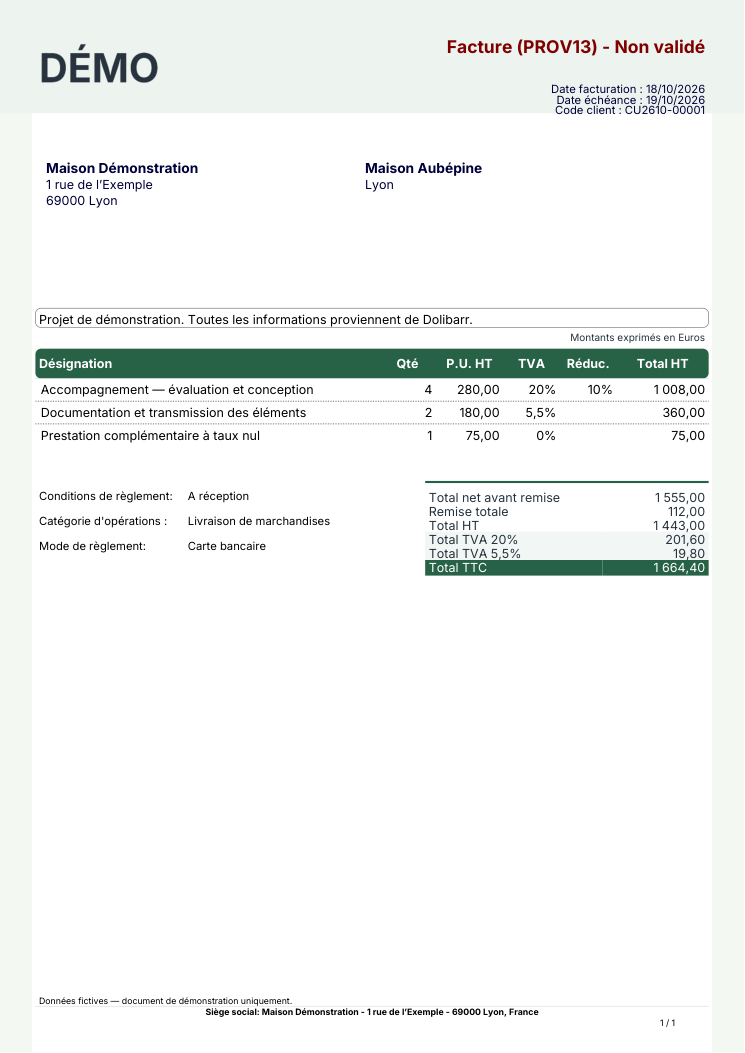
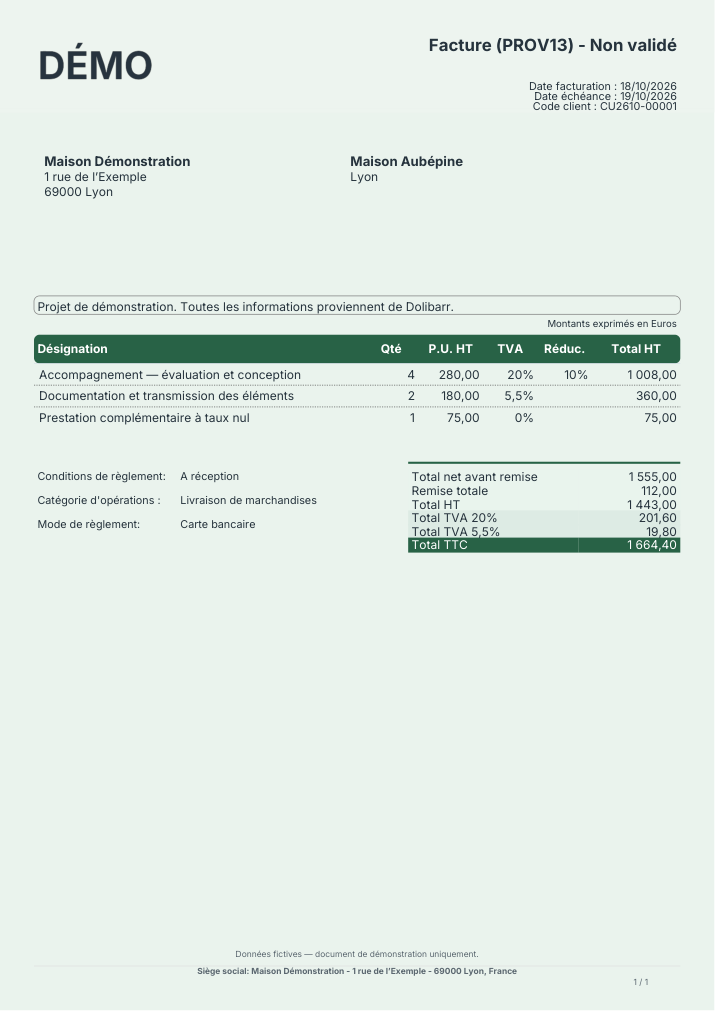
fix: apply the document background across PDF pages and repair info tooltip contrast
Documents Indy 1.3.0 removes the fixed white content panel from preview and native invoice/order PDFs. Paint the selected light paper color below native content, including later pages without repeated headings, and adapt total-cell fills and contrast checks.

Import reviewed Indy 1.4.1 for readable native tooltips and mobile help dialogs. Add rendered background checks, native hover/click/touch regressions and updated examples.

diff --git a/modules/indyinvoice/css/settings.css b/modules/indyinvoice/css/settings.css
@@ -1,4 +1,4 @@
-.indy-document-layout{display:grid;grid-template-columns:minmax(300px,1fr) minmax(280px,.85fr);gap:28px;align-items:start}.indy-document-layout h2{font-size:17px;font-weight:600;margin:0 0 18px}.indy-document-fields{display:grid;grid-template-columns:repeat(2,minmax(0,1fr));gap:18px 22px;margin-block:24px}.indy-document-field{display:flex;flex-direction:column;gap:8px;min-width:0}.indy-document-field label{font-size:13px;color:#596874}.indy-document-field input,.indy-document-field select{max-width:100%;box-sizing:border-box;min-height:42px}.indy-document-field input[type=color]{width:100%;padding:5px;cursor:pointer}.indy-palettes{display:flex;flex-wrap:wrap;gap:8px}body .indy-palettes button{padding:8px 14px;border:1px solid #d7e1e9;border-radius:20px;background:#fff;color:#354d61;cursor:pointer;font:inherit}.indy-palettes button:hover{background:#fff0f5}.indy-document-preview{position:sticky;top:24px;min-width:0}.indy-paper{--doc-band:#fcebd8;--doc-table:#fcebd8;--doc-accent:#d82b68;--doc-paper:#fff;border:1px solid #d7e1e9;border-radius:4px;background:var(--doc-paper);overflow:hidden;box-shadow:0 6px 20px #27333e0a;font-size:10px;color:var(--doc-text,#27333e);aspect-ratio:210/297}.indy-preview-photo{display:block;width:100%;height:45px;object-fit:cover}.indy-preview-photo[hidden]{display:none}.indy-preview-header{display:flex;justify-content:space-between;gap:15px;padding:25px 20px;background:var(--doc-band);color:var(--doc-header-text,#27333e)}.indy-preview-body{margin:0 15px;padding:15px 5px;background:#fff;min-height:80%;box-sizing:border-box}.indy-preview-addresses{display:flex;justify-content:space-between;gap:12px;margin-bottom:45px;font-size:9px}.indy-preview-table{display:grid;grid-template-columns:1fr 24px 65px;font-size:9px}.indy-preview-table>*{padding:8px 5px;border-bottom:1px solid #edf0f3}.indy-preview-table>b{background:var(--doc-table);color:var(--doc-table-text,#27333e)}.indy-preview-totals{border-top:2px solid var(--doc-accent);width:55%;margin:35px 0 80px auto;padding-top:8px;line-height:1.8}.indy-preview-totals b{float:right}.indy-preview-footer{font-size:8px;color:var(--doc-footer-text,#596874)}.indy-document-preview .butAction{display:block;margin:10px 0;text-align:center}.indy-document-options .tabBar{margin:0}.indy-document-options h2:not(:first-child){margin-top:28px}@media(max-width:1100px){.indy-document-layout{grid-template-columns:minmax(0,1fr)}.indy-document-preview{position:static;max-width:500px}.indy-document-options{min-width:0}}@media(max-width:500px){.indy-document-fields{grid-template-columns:minmax(0,1fr)}.indy-document-options .tabBar{padding:18px}.indy-document-preview{width:100%;max-width:100%}}
+.indy-document-layout{display:grid;grid-template-columns:minmax(300px,1fr) minmax(280px,.85fr);gap:28px;align-items:start}.indy-document-layout h2{font-size:17px;font-weight:600;margin:0 0 18px}.indy-document-fields{display:grid;grid-template-columns:repeat(2,minmax(0,1fr));gap:18px 22px;margin-block:24px}.indy-document-field{display:flex;flex-direction:column;gap:8px;min-width:0}.indy-document-field label{font-size:13px;color:#596874}.indy-document-field input,.indy-document-field select{max-width:100%;box-sizing:border-box;min-height:42px}.indy-document-field input[type=color]{width:100%;padding:5px;cursor:pointer}.indy-palettes{display:flex;flex-wrap:wrap;gap:8px}body .indy-palettes button{padding:8px 14px;border:1px solid #d7e1e9;border-radius:20px;background:#fff;color:#354d61;cursor:pointer;font:inherit}.indy-palettes button:hover{background:#fff0f5}.indy-document-preview{position:sticky;top:24px;min-width:0}.indy-paper{--doc-band:#fcebd8;--doc-table:#fcebd8;--doc-accent:#d82b68;--doc-paper:#fff;border:1px solid #d7e1e9;border-radius:4px;background:var(--doc-paper);overflow:hidden;box-shadow:0 6px 20px #27333e0a;font-size:10px;color:var(--doc-text,#27333e);aspect-ratio:210/297}.indy-preview-photo{display:block;width:100%;height:45px;object-fit:cover}.indy-preview-photo[hidden]{display:none}.indy-preview-header{display:flex;justify-content:space-between;gap:15px;padding:25px 20px;background:var(--doc-band);color:var(--doc-header-text,#27333e)}.indy-preview-body{margin:0 15px;padding:15px 5px;background:var(--doc-paper);min-height:80%;box-sizing:border-box}.indy-preview-addresses{display:flex;justify-content:space-between;gap:12px;margin-bottom:45px;font-size:9px}.indy-preview-table{display:grid;grid-template-columns:1fr 24px 65px;font-size:9px}.indy-preview-table>*{padding:8px 5px;border-bottom:1px solid #edf0f3}.indy-preview-table>b{background:var(--doc-table);color:var(--doc-table-text,#27333e)}.indy-preview-totals{border-top:2px solid var(--doc-accent);width:55%;margin:35px 0 80px auto;padding-top:8px;line-height:1.8}.indy-preview-totals b{float:right}.indy-preview-footer{font-size:8px;color:var(--doc-footer-text,#596874)}.indy-document-preview .butAction{display:block;margin:10px 0;text-align:center}.indy-document-options .tabBar{margin:0}.indy-document-options h2:not(:first-child){margin-top:28px}@media(max-width:1100px){.indy-document-layout{grid-template-columns:minmax(0,1fr)}.indy-document-preview{position:static;max-width:500px}.indy-document-options{min-width:0}}@media(max-width:500px){.indy-document-fields{grid-template-columns:minmax(0,1fr)}.indy-document-options .tabBar{padding:18px}.indy-document-preview{width:100%;max-width:100%}}
 #indy-invoice-settings input[type=file]{display:block;width:100%;max-width:100%;min-width:0;box-sizing:border-box}#indy-invoice-settings .indy-document-preview .butAction{box-sizing:border-box;max-width:100%;white-space:normal;padding:10px 14px;font-size:13px}
 
 .indy-preview-grand-total{background:var(--doc-accent);color:var(--doc-total-text,#fff);padding:6px;margin-top:6px}.indy-document-field .indy-auto-color{display:flex;align-items:center;gap:6px}.indy-auto-color input{min-height:0}.indy-document-options p{overflow-wrap:anywhere}

diff --git a/theme/indy/indy.css b/theme/indy/indy.css
@@ -73,8 +73,13 @@
   --textbutaction: #fff;
   --butactiondeletebg: #fff0f4;
   --butactioncancelbg: #fff;
-  --tooltipbgcolor: var(--indy-ink);
-  --tooltipfontcolor: #fff;
+  --tooltipbgcolor: #fff;
+  --tooltipfontcolor: var(--indy-ink);
+  --tooltip-txt-color: var(--indy-ink);
+  --tooltip-bg-color: #fff;
+  --tooltip-txt-color-dark-theme: var(--indy-ink);
+  --tooltip-bg-color-dark-theme: #fff;
+  --tooltip-border-color-dark-theme: var(--indy-border);
   --amountpaymentcomplete: #008c7a;
   --amountremaintopaycolor: var(--indy-danger);
 }
@@ -950,3 +955,41 @@ body #id-right .indy-filter-actions button[name="button_search_x"] { background:
 #id-right .indy-filter-controls .divfordateinput { display: inline-flex; align-items: center; gap: 6px; }
 #id-right .indy-filter-controls .divfordateinput input { flex: 1 1 auto; }
 #id-right :is(input,select,textarea):focus { outline: none; }
+
+/* Rich native tooltips contain their own tables, status spans and links.
+ * Keep one light surface and explicit ink throughout, instead of mixing a
+ * dark bubble with the normal dark table typography. */
+body :is(div.ui-tooltip.mytooltip, div.ui-tooltip.jquery-tooltip, div.ui-tooltip.jquery-tooltip.--dark-mode, div.ui-tooltip.mytooltip-hover-tooltip) {
+  --tooltipbgcolor: #fff;
+  --tooltipfontcolor: #27333e;
+  --tooltip-txt-color: #27333e;
+  --tooltip-bg-color: #fff;
+  --tooltip-border-color: #d7e1e9;
+  box-sizing: border-box;
+  min-width: 0;
+  max-width: min(700px, calc(100vw - 24px)) !important;
+  padding: 16px 18px;
+  background: #fff !important;
+  color: #27333e !important;
+  border: 1px solid #d7e1e9 !important;
+  border-radius: 10px;
+  box-shadow: 0 8px 28px rgb(39 51 62 / 14%);
+  font: 400 13px/1.6 var(--indy-font);
+  overflow-wrap: anywhere;
+}
+body .ui-tooltip :is(.ui-tooltip-content, div, p, td, th, span, label, b, strong, small, pre, code, u, li) {
+  color: #27333e !important;
+  opacity: 1;
+  text-shadow: none;
+}
+body .ui-tooltip :is(table, tbody, tr, td, th) {
+  background: transparent !important;
+  border-color: #d7e1e9;
+  max-width: 100%;
+}
+body .ui-tooltip :is(td, th) { white-space: normal; }
+body .ui-tooltip :is(pre, code) { white-space: pre-wrap; }
+body .ui-tooltip a { color: #354d61 !important; text-decoration: underline; }
+body .ui-tooltip a:hover { color: #172e42 !important; }
+body .ui-tooltip :is(.ok, .badge-status4, .amountpaymentcomplete) { color: #00665b !important; }
+body .ui-tooltip :is(.error, .warning) { color: #ad3555 !important; }

diff --git a/modules/indyinvoice/js/settings.js b/modules/indyinvoice/js/settings.js
@@ -21,7 +21,7 @@
     const colors=names.map(n=>form.elements['INDYINVOICE_'+n].value);
     ['--doc-band','--doc-table','--doc-accent','--doc-paper'].forEach((n,i)=>paper.style.setProperty(n,colors[i]));
     const noBand=Number(form.elements.INDYINVOICE_BANNER_HEIGHT.value)===0;
-    if (noBand) paper.style.setProperty('--doc-band','#ffffff');
+    if (noBand) paper.style.setProperty('--doc-band',colors[3]);
     ['HEADER','TABLE','TOTAL'].forEach((zone,i)=>{
       const auto=form.elements['INDYINVOICE_'+zone+'_TEXT_AUTO'].checked;
       const input=form.elements['INDYINVOICE_'+zone+'_TEXT_COLOR'];

diff --git a/tests/indy/usability.py b/tests/indy/usability.py
@@ -127,6 +127,54 @@ with sync_playwright() as p:
   assert page.locator('.indy-form-grid').count()>0
   assert page.evaluate('() => document.documentElement.scrollWidth <= innerWidth')
   page.screenshot(path=str(out/f'new-client-{width}.png'),full_page=True)
+ # Rich tooltip regression: native invoice model capabilities and free-text help.
+ for width in [1440,390,320]:
+  page.set_viewport_size({'width':width,'height':1000})
+  page.goto(base+'/admin/invoice.php',wait_until='networkidle')
+  for name,trigger in [('sponge',page.locator('tr').filter(has=page.get_by_text('sponge',exact=True)).last.locator('.classfortooltip').last),('freetext',page.locator('[dolid="freetexttooltip"]'))]:
+   if name == 'freetext':
+    trigger.click();tip=page.locator('.ui-dialog:visible').last
+   else:
+    trigger.hover();tip=page.locator('div.ui-tooltip:visible').last
+   tip.wait_for(state='visible')
+   assert tip.inner_text().strip(),(name,width,'Empty info popup')
+   assert tip.evaluate(r'''e=>{
+    const lum=s=>{const c=s.match(/[\d.]+/g).slice(0,3).map(Number).map(v=>{v/=255;return v<=.04045?v/12.92:((v+.055)/1.055)**2.4});return c[0]*.2126+c[1]*.7152+c[2]*.0722};
+    const r=e.getBoundingClientRect();
+    if(r.left<0||r.right>innerWidth||r.width<200) return false;
+    const text=[e,...e.querySelectorAll('*')].filter(x=>x.getBoundingClientRect().width>1&&x.getBoundingClientRect().height>1&&[...x.childNodes].some(n=>n.nodeType===Node.TEXT_NODE&&n.textContent.trim()));
+    return text.every(x=>{
+     let p=x,bg;
+     while(p){bg=getComputedStyle(p).backgroundColor;if(bg!=='rgba(0, 0, 0, 0)'&&bg!=='transparent')break;p=p.parentElement;}
+     const a=lum(getComputedStyle(x).color),b=lum(bg||'rgb(255,255,255)');
+     return (Math.max(a,b)+.05)/(Math.min(a,b)+.05)>=4.5;
+    });
+   }'''),(name,width,'Unreadable or overflowing info popup')
+   page.screenshot(path=str(out/f'tooltip-{name}-{width}.png'),full_page=True)
+   page.mouse.move(0,0);page.keyboard.press('Escape')
+ # Also inspect rich tables and links in a native jQuery tooltip variant.
+ page.set_viewport_size({'width':1440,'height':1000})
+ page.evaluate('''()=>{
+  const b=document.createElement('button');b.id='indy-tooltip-fixture';b.textContent='Aide de démonstration';document.querySelector('#id-right').prepend(b);
+  jQuery(b).tooltip({items:'button',classes:{'ui-tooltip':'jquery-tooltip --dark-mode'},content:'<table><tr><td>Compte bancaire</td><td><a href="#">Consulter le compte</a></td></tr></table>'});
+ }''')
+ page.locator('#indy-tooltip-fixture').hover()
+ tip=page.locator('div.ui-tooltip:visible').last;tip.wait_for(state='visible')
+ assert tip.evaluate('e=>getComputedStyle(e).backgroundColor')=='rgb(255, 255, 255)'
+ assert tip.locator('a').evaluate('e=>getComputedStyle(e).color')=='rgb(53, 77, 97)'
+ page.mouse.move(0,0);page.keyboard.press('Escape')
+ print('PASS: six native information tooltips at desktop/390/320px and rich jQuery content, text/link contrast and viewport bounds.',flush=True)
+ # Touch devices use Dolibarr's native click-to-open information dialog.
+ touch=b.new_page(viewport={'width':390,'height':844},is_mobile=True,has_touch=True,user_agent='Mozilla/5.0 (Linux; Android 14; Pixel 8) AppleWebKit/537.36 (KHTML, like Gecko) Chrome/122.0.0.0 Mobile Safari/537.36')
+ touch.goto(base+'/');touch.locator('#username').fill('admin');touch.locator('#password').fill(os.environ['DOLIBARR_TEST_PASSWORD']);touch.locator('input[type=submit]').first.tap();touch.wait_for_load_state('networkidle')
+ touch.goto(base+'/admin/invoice.php',wait_until='networkidle')
+ touch.locator('[dolid="freetexttooltip"]').tap()
+ dialog=touch.locator('.ui-dialog:visible');dialog.wait_for(state='visible')
+ assert dialog.inner_text().strip()
+ assert dialog.evaluate('e=>{const r=e.getBoundingClientRect();return r.left>=0&&r.right<=innerWidth}')
+ assert dialog.locator('.ui-dialog-content').evaluate('e=>getComputedStyle(e).color')=='rgb(39, 51, 62)'
+ touch.screenshot(path=str(out/'tooltip-help-touch.png'),full_page=True)
+ touch.close()
  b.close()
 (out/'audit-report.json').write_text(json.dumps(report,indent=2))
 passed=sum(r['status']=='passed' for r in report)

diff --git a/modules/indyinvoice/lib/pdfstyle.lib.php b/modules/indyinvoice/lib/pdfstyle.lib.php
@@ -102,11 +102,10 @@ trait IndyDocumentStyle
         $photo = DOL_DATA_ROOT.'/indyinvoice/banner-'.((int) $conf->entity).'.png';
         $strip = getDolGlobalInt('INDYINVOICE_USE_BANNER_IMAGE') && is_readable($photo) ? 20 : 0;
         $height = max(0, min(35, getDolGlobalInt('INDYINVOICE_BANNER_HEIGHT', 32)));
-        // Only decorate the margins. Native financial content stays on white.
+        // Use the same full-page paper colour as the live preview.
         $paper = $this->rgb('INDYINVOICE_PAPER_COLOR', 'FFFFFF');
-        $pdf->SetFillColor(...$paper);
-        $pdf->Rect(0, 0, max(0, $this->marge_gauche - 1), $this->page_hauteur, 'F');
-        $pdf->Rect($this->page_largeur - $this->marge_droite + 1, 0, $this->marge_droite - 1, $this->page_hauteur, 'F');
+        require_once __DIR__.'/pagecanvas.lib.php';
+        IndyPageCanvas::paint($pdf, $paper);
         if ($strip) {
             $pdf->Image($photo, 0, 0, $this->page_largeur, 20, 'PNG');
         }
@@ -213,10 +212,10 @@ trait IndyDocumentStyle
         $pdf->SetLineWidth(0.2);
         if (getDolGlobalString('INDYINVOICE_TABLE_STYLE', 'light') === 'light') {
             $canvas = new IndyTotalsCanvas($pdf, $this->rgb('INDYINVOICE_ACCENT_COLOR', 'D82B68'), $this->rgb('INDYINVOICE_TEXT_COLOR', '27333E'),
-                getDolGlobalInt('INDYINVOICE_TOTAL_TEXT_AUTO', 1) ? null : $this->rgb('INDYINVOICE_TOTAL_TEXT_COLOR', 'FFFFFF'));
+                getDolGlobalInt('INDYINVOICE_TOTAL_TEXT_AUTO', 1) ? null : $this->rgb('INDYINVOICE_TOTAL_TEXT_COLOR', 'FFFFFF'), $this->rgb('INDYINVOICE_PAPER_COLOR', 'FFFFFF'));
             return parent::drawTotalTable($canvas, $object, $deja_regle, $posy, $outputlangs, $outputlangsbis);
         }
-        $canvas = new IndyTextCanvas($pdf, $this->rgb('INDYINVOICE_TEXT_COLOR', '27333E'));
+        $canvas = new IndyTotalsCanvas($pdf, $this->rgb('INDYINVOICE_ACCENT_COLOR', 'D82B68'), $this->rgb('INDYINVOICE_TEXT_COLOR', '27333E'), null, $this->rgb('INDYINVOICE_PAPER_COLOR', 'FFFFFF'), false);
         return parent::drawTotalTable($canvas, $object, $deja_regle, $posy, $outputlangs, $outputlangsbis);
     }
 
@@ -234,6 +233,8 @@ trait IndyDocumentStyle
 
     protected function _pagefoot(&$pdf, $object, $outputlangs, $hidefreetext = 0, $heightforqrinvoice = 0)
     {
+        require_once __DIR__.'/pagecanvas.lib.php';
+        IndyPageCanvas::paint($pdf, $this->rgb('INDYINVOICE_PAPER_COLOR', 'FFFFFF'));
         $canvas = new IndyTextCanvas($pdf, null, null, true);
         if ($this->name === 'indyorder') return parent::_pagefoot($canvas, $object, $outputlangs, $hidefreetext);
         return parent::_pagefoot($canvas, $object, $outputlangs, $hidefreetext, $heightforqrinvoice);

diff --git a/tests/invoices/verify.py b/tests/invoices/verify.py
@@ -1,5 +1,6 @@
 """Validate actual Dolibarr-generated PDFs, including a multi-page invoice."""
 import json
+from collections import Counter
 import re
 from pathlib import Path
 import fitz
@@ -22,13 +23,22 @@ for name, expected in manifest.items():
     assert 'Données fictives' in text and 'Maison Démonstration' in text, (name, 'Fixture information missing')
     assert "Un mode de paiement a été défini" not in text, (name, 'Incomplete payment fixture')
     for index, page in enumerate(document):
-        assert ('Commande' if name in ('order', 'order-shared', 'order-own', 'order-bank', 'long-order') else 'Facture') in page.get_text(), (name, index, 'Repeated document heading missing')
+        if name != 'long-invoice' or index == 0: assert ('Commande' if name in ('order', 'order-shared', 'order-own', 'order-bank', 'long-order') else 'Facture') in page.get_text(), (name, index, 'Repeated document heading missing')
         assert 'Siège social' in page.get_text(), (name, index, 'Native footer missing')
         # Check the rendered banner, rather than merely a hidden PDF drawing.
         banner = page.get_pixmap(clip=fitz.Rect(3, 3, 9, 9), alpha=False)
         pixel = banner.pixel(2, 2)
         expected_color = (42,99,75) if name == 'banner' else ((237,245,239) if name == 'sage' else ((69,32,96) if name == 'text-colors' else (252,235,216)))
+        if name == 'long-invoice' and index > 0: expected_color = (234,244,238)
         assert all(abs(a-b)<4 for a,b in zip(pixel,expected_color)), (name,index,'Banner missing',pixel)
+        if name in ('sage', 'long-invoice', 'mentions-long-pages', 'long-order', 'grid'):
+            # Empty content and margin areas must share the chosen paper color,
+            # including pages whose native header is intentionally hidden.
+            paper=(255,240,245) if name=='grid' else (234,244,238)
+            for x,y in [(1,180),(30,180),(105,230),(207,270)]:
+                swatch=page.get_pixmap(clip=fitz.Rect(x*72/25.4,y*72/25.4,(x+2)*72/25.4,(y+2)*72/25.4),alpha=False)
+                px=Counter(tuple(swatch.samples[i:i+3]) for i in range(0,len(swatch.samples),3)).most_common(1)[0][0]
+                assert all(abs(a-b)<4 for a,b in zip(px,paper)), (name,index,'Hardcoded white content background',x,y,px)
         for word in page.get_text('words'):
             assert word[0] >= -1 and word[1] >= -1 and word[2] <= page.rect.width + 1 and word[3] <= page.rect.height + 1, (name, index, 'Text outside the page')
     if name in ('long-invoice', 'mentions-long-pages'):

diff --git a/modules/indyinvoice/admin/setup.php b/modules/indyinvoice/admin/setup.php
@@ -68,7 +68,7 @@ if ($_SERVER['REQUEST_METHOD'] === 'POST' && GETPOST('action', 'aZ09') === 'save
     }
     foreach ($switches as $key => $fallback) $values[$key] = GETPOSTINT($key) === 1 ? 1 : 0;
     $rgb = function ($hex) { return array(hexdec(substr($hex,0,2)), hexdec(substr($hex,2,2)), hexdec(substr($hex,4,2))); };
-    $pairs = array('TEXT' => 'FFFFFF', 'FOOTER_TEXT' => 'FFFFFF');
+    $pairs = array('TEXT' => $values['INDYINVOICE_PAPER_COLOR'], 'FOOTER_TEXT' => $values['INDYINVOICE_PAPER_COLOR']);
     foreach (array('HEADER' => ((int)$values['INDYINVOICE_BANNER_HEIGHT'] > 0 ? 'BANNER_COLOR' : null), 'TABLE' => 'TABLE_COLOR', 'TOTAL' => 'ACCENT_COLOR') as $zone => $background) {
         if ($zone === 'HEADER' && $background === null) continue;
         if (!$values['INDYINVOICE_'.$zone.'_TEXT_AUTO']) $pairs[$zone.'_TEXT'] = $background ? $values['INDYINVOICE_'.$background] : 'FFFFFF';
@@ -132,7 +132,7 @@ if ($_SERVER['REQUEST_METHOD'] === 'POST' && GETPOST('action', 'aZ09') === 'save
     }
 }
 llxHeader('', $langs->trans('IndyInvoiceSettings'));
-print '<link rel="stylesheet" href="'.dol_buildpath('/indyinvoice/css/settings.css',1).'?v=120">';
+print '<link rel="stylesheet" href="'.dol_buildpath('/indyinvoice/css/settings.css',1).'?v=130">';
 print load_fiche_titre($langs->trans('IndyInvoiceSettings'), '', 'bill');
 if (GETPOSTINT('saved') === 1) print '<div class="ok">'.$langs->trans('SetupSaved').'</div>';
 print '<p>'.$langs->trans('IndyInvoiceScope').'</p>';
@@ -182,5 +182,5 @@ print '<aside class="indy-document-preview"><h2>'.$langs->trans('IndyStylePrevie
 print '<p><a class="butAction" href="'.DOL_URL_ROOT.'/admin/invoice.php?action=specimen&module=indy&token='.newToken().'">'.$langs->trans('IndyInvoicePreview').'</a></p>';
 if (isModEnabled('commande')) print '<p><a class="butAction" href="'.DOL_URL_ROOT.'/admin/order.php?action=specimen&module=indyorder&token='.newToken().'">'.$langs->trans('IndyOrderPreview').'</a></p>';
 print '</aside></div></form><p>'.$langs->trans('IndyFontHelp').'</p>';
-print '<script nonce="'.getNonce().'" src="'.dol_buildpath('/indyinvoice/js/settings.js',1).'?v=120"></script>';
+print '<script nonce="'.getNonce().'" src="'.dol_buildpath('/indyinvoice/js/settings.js',1).'?v=130"></script>';
 llxFooter(); $db->close();

diff --git a/tests/invoices/generate.php b/tests/invoices/generate.php
@@ -68,6 +68,7 @@ $conf->global->INDYINVOICE_BANNER_HEIGHT = 32;
 $conf->global->INDYINVOICE_FONT_SIZE = 11;
 $conf->global->INDYINVOICE_LOGO_HEIGHT = 18;
 foreach ($cases as $case) {
+    $conf->global->MAIN_PDF_DONOTREPEAT_HEAD = $case === 'long-invoice' ? 1 : 0;
     $conf->global->FACTURE_RIB_NUMBER = strpos($case, 'bank-') === 0 ? $bankIds['A'] : 0;
     $conf->global->INDYINVOICE_SHOW_BANK_DETAILS = in_array($case, array('bank-card-shown', 'bank-credit'), true) ? 1 : 0;
     $conf->global->INVOICE_FREE_TEXT = strpos($case, 'mentions-') === 0 ? $longText : 'Données fictives — document de démonstration uniquement.';
@@ -80,7 +81,7 @@ foreach ($cases as $case) {
     $conf->global->INDYINVOICE_TABLE_TEXT_COLOR = '354080';
     $conf->global->INDYINVOICE_TOTAL_TEXT_COLOR = 'FFF4DB';
     $conf->global->INDYINVOICE_FOOTER_TEXT_COLOR = $case === 'text-colors' ? '354080' : '5B6770';
-    $conf->global->INDYINVOICE_PAPER_COLOR = $case === 'sage' ? 'F4F7F2' : 'FFFFFF';
+    $conf->global->INDYINVOICE_PAPER_COLOR = in_array($case, array('sage', 'long-invoice', 'mentions-long-pages'), true) ? 'EAF4EE' : ($case === 'grid' ? 'FFF0F5' : 'FFFFFF');
     $conf->global->INDYINVOICE_TABLE_COLOR = $case === 'sage' ? '286347' : 'FCEBD8';
     $conf->global->INDYINVOICE_BANNER_COLOR = $case === 'sage' ? 'EDF5EF' : 'FCEBD8';
     $conf->global->INDYINVOICE_ACCENT_COLOR = $case === 'sage' ? '286347' : 'D82B68';
@@ -169,6 +170,7 @@ foreach (array('HEADER', 'TABLE', 'TOTAL') as $zone) $conf->global->{'INDYINVOIC
 $conf->global->PDF_ALLOW_HTML_FOR_FREE_TEXT = 0;
 $conf->global->FACTURE_RIB_NUMBER = $bankIds['A'];
 foreach (array('order', 'order-shared', 'order-own', 'order-bank', 'long-order') as $case) {
+    $conf->global->INDYINVOICE_PAPER_COLOR = $case === 'long-order' ? 'EAF4EE' : 'FFFFFF';
     $conf->global->ORDER_FREE_TEXT = $case === 'order-own' ? 'Données fictives — MENTION COMMANDE PRIORITAIRE.' : '';
     $conf->global->INDYINVOICE_USE_INVOICE_TEXT_FOR_ORDERS = in_array($case, array('order-shared', 'order-own'), true) ? 1 : 0;
     $conf->global->INVOICE_FREE_TEXT = 'Données fictives — MENTION FACTURE PARTAGÉE.';

diff --git a/modules/indyinvoice/lib/totalscanvas.lib.php b/modules/indyinvoice/lib/totalscanvas.lib.php
@@ -10,8 +10,10 @@ class IndyTotalsCanvas
     private $fill = array(255,255,255);
     private $text = array(39,51,62);
     private $totalText;
+    private $paper;
+    private $decorate;
 
-    public function __construct($pdf, $accent, $text = array(39,51,62), $totalText = null) { $this->pdf=$pdf; $this->accent=$accent; $this->text=$text; $this->totalText=$totalText; }
+    public function __construct($pdf, $accent, $text = array(39,51,62), $totalText = null, $paper = array(255,255,255), $decorate = true) { $this->pdf=$pdf; $this->accent=$accent; $this->text=$text; $this->totalText=$totalText; $this->paper=$paper; $this->decorate=$decorate; }
     public static function contrast($rgb)
     {
         $luma=0;
@@ -35,14 +37,16 @@ class IndyTotalsCanvas
         return (max($x, $y)+0.05)/(min($x, $y)+0.05);
     }
     public function __get($name) { return $this->pdf->$name; }
+    public function nativePdf() { return method_exists($this->pdf, 'nativePdf') ? $this->pdf->nativePdf() : $this->pdf; }
     public function __set($name,$value) { $this->pdf->$name=$value; }
     public function __call($name,$args)
     {
         $method=strtolower($name);
         if ($method==='setfillcolor' && count($args)>=3) {
             $grey=max($args[0],$args[1],$args[2])-min($args[0],$args[1],$args[2])<3;
-            if ($grey && $args[0]>=200 && $args[0]<=230) $args=$this->accent;
-            elseif ($grey && $args[0]>230 && $args[0]<252) $args=array_map(function($c){return (int)round(255*0.94+$c*0.06);},$this->accent);
+            if ($this->decorate && $grey && $args[0]>=200 && $args[0]<=230) $args=$this->accent;
+            elseif ($this->decorate && $grey && $args[0]>230 && $args[0]<252) $args=array_map(function($c,$p){return (int)round($p*0.94+$c*0.06);},$this->accent,$this->paper);
+            elseif ($grey && $args[0]>=252) $args=$this->paper;
             $this->fill=array_slice($args,0,3);
         } elseif ($method==='settextcolor') {
             $args=$this->text;

diff --git a/modules/indyinvoice/lib/pagecanvas.lib.php b/modules/indyinvoice/lib/pagecanvas.lib.php
@@ -1,0 +1,29 @@
+<?php
+/* Hallcyn. SPDX-License-Identifier: GPL-3.0-or-later */
+/** A page underlay for Dolibarr's bundled TCPDF/TCPDI (24.0.2).
+ * Native generators may draw the header after line items on subsequent pages.
+ * Prepend the background before all drawing commands, instead of covering that
+ * content. This runs before native output/signing; no PDF is reopened or merged.
+ */
+class IndyPageCanvas extends TCPDF
+{
+    public static function paint($pdf, $rgb)
+    {
+        if ($rgb === array(255, 255, 255)) return;
+        // Native total/payment tables can create another page while drawing
+        // through a presentation canvas. Always paint its original instance.
+        if (method_exists($pdf, 'nativePdf')) $pdf = $pdf->nativePdf();
+        $page = $pdf->getPage();
+        $buffer = $pdf->getPageBuffer($page);
+        if (strpos($buffer, '% Indy page background') === 0) return;
+        $scale = $pdf->getScaleFactor();
+        $underlay = sprintf("%% Indy page background\nq\n%.5F %.5F %.5F rg\n0 0 %.5F %.5F re f\nQ\n",
+            $rgb[0]/255, $rgb[1]/255, $rgb[2]/255, $pdf->getPageWidth()*$scale, $pdf->getPageHeight()*$scale);
+        $pdf->setPageBuffer($page, $underlay.$buffer);
+        // These native offsets must continue pointing at the same content
+        // after the insertion, so later table fills and footers stay in order.
+        foreach (array('intmrk', 'bordermrk', 'cntmrk', 'footerpos') as $mark) {
+            if (isset($pdf->{$mark}[$page])) $pdf->{$mark}[$page] += strlen($underlay);
+        }
+    }
+}

diff --git a/tests/invoices/browser.py b/tests/invoices/browser.py
@@ -27,6 +27,7 @@ with sync_playwright() as p:
     assert page.locator('[name=make_default_order]').is_checked(), 'Order default check must reflect the saved model'
     assert page.locator('#INDYINVOICE_FONT').input_value()=='dejavusans'
     assert page.locator('#INDYINVOICE_TABLE_COLOR').input_value()=='#286347'
+    assert page.locator('.indy-preview-body').evaluate('e=>getComputedStyle(e).backgroundColor')=='rgb(244, 248, 243)', 'White panel in paper preview'
     for url,name in [('/admin/invoice.php','indy'),('/admin/order.php','indyorder')]:
         page.goto(base+url,wait_until='networkidle')
         row=page.locator('tr').filter(has=page.get_by_text(name,exact=True)).last
@@ -45,6 +46,9 @@ with sync_playwright() as p:
     assert 'Commande' in pdf[0].get_text()
     pixel=pdf[0].get_pixmap(clip=fitz.Rect(3,3,9,9),alpha=False).pixel(2,2)
     assert pixel[1]>pixel[0], 'Draft order used the classic PDF instead of the saved sage style'
+    for p in pdf:
+        px=p.get_pixmap(clip=fitz.Rect(300,600,306,606),alpha=False).pixel(1,1)
+        assert all(abs(a-b)<4 for a,b in zip(px,(244,248,243))), 'Generated order ignores the selected full-page background'
     page.goto(base+'/indyinvoice/admin/setup.php',wait_until='networkidle')
     # Every text color and bank/order option survives an actual form POST.
     page.locator('[data-palette=cream]').click()

diff --git a/modules/indyinvoice/lib/textcanvas.lib.php b/modules/indyinvoice/lib/textcanvas.lib.php
@@ -12,6 +12,7 @@ class IndyTextCanvas
     public function __construct($pdf, $color = null, $band = null, $wrap = false)
     { $this->pdf = $pdf; $this->color = $color; $this->band = $band; $this->wrap = $wrap; }
     public function __get($name) { return $this->pdf->$name; }
+    public function nativePdf() { return method_exists($this->pdf, 'nativePdf') ? $this->pdf->nativePdf() : $this->pdf; }
     public function __set($name, $value) { $this->pdf->$name = $value; }
     public function __call($name, $args)
     {
